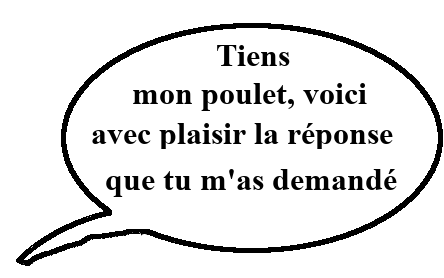
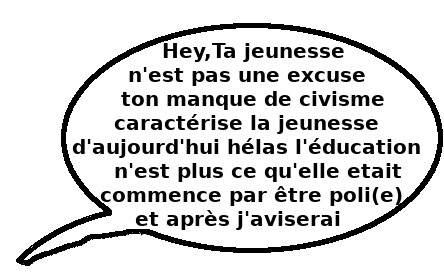
ajouter affichage reponse aleatoire

Changed region(s): [[0.1464, 0.1439, 0.9662, 0.8345]]

diff --git a/gpapp/static/js/grandPy.js b/gpapp/static/js/grandPy.js
@@ -1,23 +1,20 @@
 
 $(document).ready(function(){
     function display(response_json){
-
         var instruction = [
                 $('#ask').hide(),
                 $('#word_of_welcome').hide(),
                 $('#gp_reflection').hide(),
-                $('#comprehension').hide(),
-                $('#gp_reply').show(),
                 $('#answer').show(),
                 $('#other').show()
         ]
+        var wiki_answer = response_json['answer']['history'];
         instruction.push(
-            $('#address').text("l'adresse se situe : "
+            $('#address').text("l'adresse "+wiki_answer[0]+" se situe : "
             + JSON.stringify(response_json['answer']['address']['result']['formatted_address'])));
 
         instruction.push($('#map')[0].src = response_json['display_map']);
 
-        var wiki_answer = response_json['answer']['history'];
         if (wiki_answer[2][0]){
             var texte = $('#history').text(JSON.stringify(wiki_answer[2][0]));
         }
@@ -32,40 +29,52 @@ $(document).ready(function(){
 
     function answer_gp(response){
         var response_json = JSON.parse(response);
-        if (response_json["quotas_api"]["nb_response"] == 5){
+        var lt_mes =[
+                    "#gp_reply4","#gp_reply5",
+                    "#gp_reply6","#gp_reply7"
+        ];
 
-            $("#ask").hide();
-            $("#word_of_welcome").hide();
-            $("#gp_reflection").hide();
-            $("#comprehension").hide();
+        console.log(response_json);
+        if (response_json["quotas_api"]["nb_response"] == 1){
+
+            $("#gp_reply3").show();
+            $.each(display(response_json), function(value){
+                $(value)
+                }
+            );
+        }
+        else if (response_json["quotas_api"]["nb_response"] == 5){
+
             $("#overstrain").show();
-            $("#answer").show();
-            $("#other").show();
-            $.each(display(response_json), function(index, value){
-                $(value);
-            });
-
+            $.each(display(response_json), function(value){
+                $(value)
+                }
+            );
         }
         else if ((response_json["quotas_api"]["over_quotas"] == "True") ||
-                (response_json["quotas_api"]["nb_response"] >= 10)){
+                (response_json["quotas_api"]["nb_response"] == 10)){
+
+            $("#quotas").show();
+            $("#window_sill").hide();
+            $("#other").hide();
             $("#gp_reflection").hide();
             $("#ask").hide();
-            $("#other").hide();
-            $("#window_sill").hide();
-            $("#quotas").show();
         }
         else if (response_json["quotas_api"]["comprehension"] == "False"){
-            $("#gp_reflection").hide();
-            $("#ask").hide();
-            $("#other").hide();
-            $("#ask").show();
-            $("#comprehension").show();
 
+            $("#comprehension").show();
+            $("#question").val(" ");
+            $.each(display(response_json), function(value){
+                $(value)
+                }
+            );
         }
         else{
-            $.each(display(response_json), function(index, value){
-                $(value);
-            });
+                $(lt_mes[Math.floor(Math.random()*lt_mes.length)]).show();
+                $.each(display(response_json), function(value){
+                    $(value)
+                    }
+                );
         }
     };
 

diff --git a/gpapp/templates/index.html b/gpapp/templates/index.html
@@ -31,7 +31,13 @@
                             {# welcome message #}
                             <img id="word_of_welcome" src="{{ url_for('static', filename='image/text_home.png') }}" alt="parole de grand papy"/>
                             {# reply message #}
-                            <img id="gp_reply" src="{{ url_for('static', filename='image/answer1.png') }}" alt="parole de grand papy"/>
+                            <img id="gp_reply1" src="{{ url_for('static', filename='image/answer1.png') }}" alt="parole de grand papy"/>
+                            <img id="gp_reply2" src="{{ url_for('static', filename='image/answer2.png') }}" alt="parole de grand papy"/>
+                            <img id="gp_reply3" src="{{ url_for('static', filename='image/answer3.png') }}" alt="parole de grand papy"/>
+                            <img id="gp_reply4" src="{{ url_for('static', filename='image/answer4.png') }}" alt="parole de grand papy"/>
+                            <img id="gp_reply5" src="{{ url_for('static', filename='image/answer5.png') }}" alt="parole de grand papy"/>
+                            <img id="gp_reply6" src="{{ url_for('static', filename='image/answer6.png') }}" alt="parole de grand papy"/>
+                            <img id="gp_reply7" src="{{ url_for('static', filename='image/answer7.png') }}" alt="parole de grand papy"/>
                             {# over quotas message#}
                             <img id="quotas" src="{{ url_for('static', filename='image/over_quotas.png') }}" alt="parole de grand papy"/>
                             {# incomprehension message#}

diff --git a/gpapp/static/css/style.css b/gpapp/static/css/style.css
@@ -82,11 +82,14 @@ body
     margin: 20px 0 20px 0;
 }
 
-/* hidden display */
-#gp_title,#gp_reply,#gp_reflection,#answer,#gp_tag,#quotas,#other,#comprehension,#overstrain
+/* hidden display (grandpy's message)*/
+#gp_title,#answer,#gp_tag,#other,
+#gp_reflection,#quotas,#comprehension,#overstrain,
+#gp_reply1,#gp_reply2,#gp_reply3,#gp_reply4,#gp_reply5,#gp_reply6,#gp_reply7
 {
     display: none;
 }
+
 
                         /* mobile screen display */
 @media screen and (min-width: 1070px) and (max-width: 1123px)

diff --git a/gpapp/question_answer.py b/gpapp/question_answer.py
@@ -6,6 +6,7 @@ import json
 
 import urllib.request, urllib.parse
 
+
 # environment variable
 def var_env():
     """
@@ -154,7 +155,6 @@ def get_map_static(location_map):
     function of displaying the geolocation of the address
     asked to grandpy on the map of the Google Map Static API
     """
-
     key = var_env()["staticMap"]  # environment variable
 
     # replacing space by "% 20" in the string of characters
@@ -162,10 +162,13 @@ def get_map_static(location_map):
     # longitude and latitude display
     localization = location_map["location"]
     # display map
+
     display_map = "https://maps.googleapis.com/maps/api/staticmap?center="\
         +formatting_address+\
-        "&zoom=18.5&size=600x300&maptype=roadmap&markers=color:red%7Clabel:A%7C"+\
-        str(localization["lat"])+","+str(localization["lng"])+"&key={}".format(key)
+        "&zoom=18.5&size=600x300&maptype=roadmap&markers=color:red%7Clabel:A%7C"\
+        +str(localization['lat'])+","\
+        +str(localization['lng'])+\
+        "&key={}".format(key)
 
     return display_map
 
